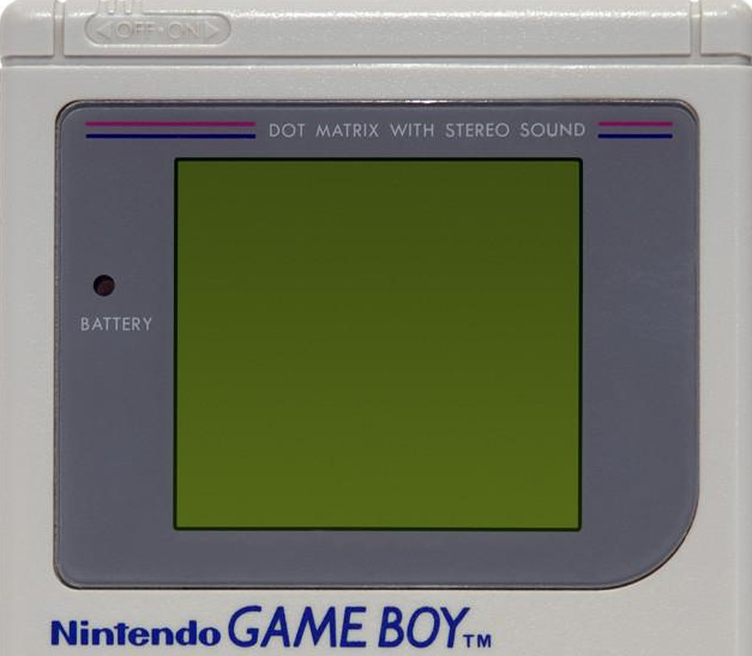
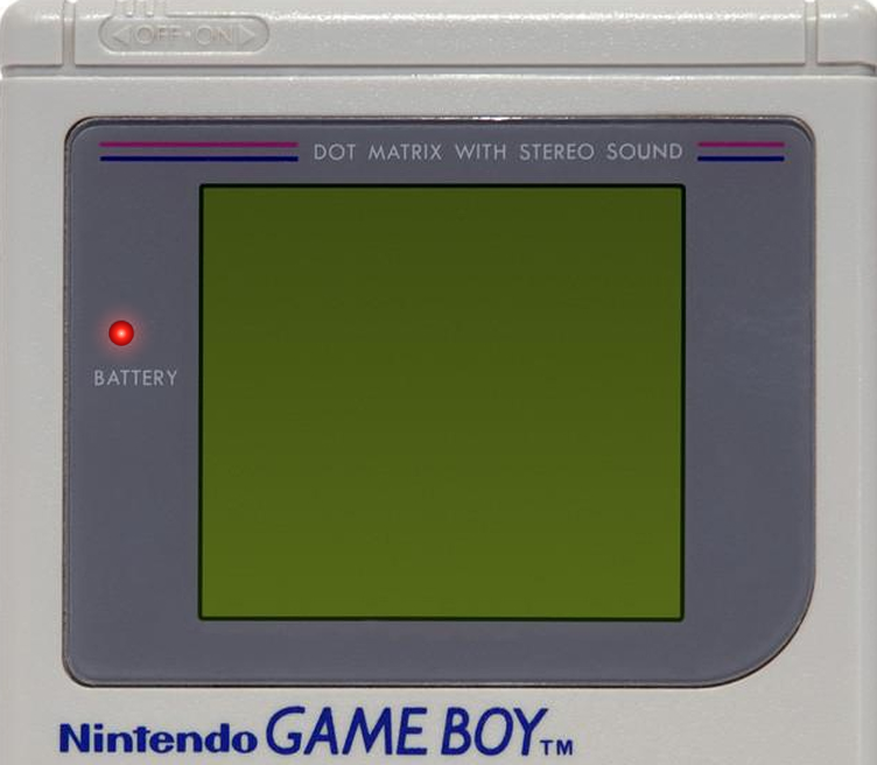
feat(frontend): add LCD pixel grid at integer 3x scale
Scale the Game Boy screen by an integer factor (160x144 -> 480x432) and darken the top row and left column of every pixel to mimic the gaps of a real LCD. Remove the LcdMap lookup tables, which are no longer needed, and regenerate the skin for the new window size (877x765).

Changed region(s): [[0.2141, 0.2439, 0.7952, 0.8232], [0.0918, 0.3963, 0.1835, 0.4878]]

diff --git a/src/frontend/mod.rs b/src/frontend/mod.rs
@@ -21,18 +21,24 @@ use crate::joypad::Button;
 const SCREEN_WIDTH: u32 = 160;
 const SCREEN_HEIGHT: u32 = 144;
 
-const WINDOW_SCALE: u32 = 6;
+const WINDOW_SCALE: u32 = 7;
 const WINDOW_SCALE_BASE: u32 = 5;
 
-/// Emulator window screen size in pixels.
 const WINDOW_WIDTH: u32 = 627 * WINDOW_SCALE / WINDOW_SCALE_BASE;
 const WINDOW_HEIGHT: u32 = 547 * WINDOW_SCALE / WINDOW_SCALE_BASE;
 
-/// Initial position and size where LCD is place on the window
-const LCD_X: u32 = 146 * WINDOW_SCALE / WINDOW_SCALE_BASE;
-const LCD_Y: u32 = 132 * WINDOW_SCALE / WINDOW_SCALE_BASE;
-const LCD_WIDTH: u32 = 339 * WINDOW_SCALE / WINDOW_SCALE_BASE;
-const LCD_HEIGHT: u32 = 311 * WINDOW_SCALE / WINDOW_SCALE_BASE;
+/// Integer scale of the Game Boy screen (160x144 -> 480x432).
+const LCD_SCALE: u32 = 3;
+const SCALE: usize = LCD_SCALE as usize;
+const SCREEN_W: usize = SCREEN_WIDTH as usize;
+
+const LCD_WIDTH: u32 = SCREEN_WIDTH * LCD_SCALE;
+const LCD_HEIGHT: u32 = SCREEN_HEIGHT * LCD_SCALE;
+
+// The LCD is centered on the center of the LCD area of the original
+// 627x547 skin: x = 146 + 339 / 2, y = 132 + 311 / 2.
+const LCD_X: u32 = (2 * 146 + 339) * WINDOW_SCALE / (2 * WINDOW_SCALE_BASE) - LCD_WIDTH / 2;
+const LCD_Y: u32 = (2 * 132 + 311) * WINDOW_SCALE / (2 * WINDOW_SCALE_BASE) - LCD_HEIGHT / 2;
 
 const FRAME_CYCLES: u32 = 70_224;
 const EMULATION_CHUNK_CYCLES: u32 = 256;
@@ -56,77 +62,53 @@ const PALETTE: [[u8; 4]; 4] = [
     [15, 56, 15, 255],   // 3: darkest
 ];
 
-/// Precomputed nearest-neighbor lookup tables that map every pixel of the
-/// on-screen LCD area to a pixel of the native 160x144 Game Boy framebuffer.
-///
-/// Building these once avoids doing two multiplications and two divisions
-/// per pixel on every frame.
-struct LcdMap {
-    /// For each destination column (`0..LCD_WIDTH`), the source column.
-    src_x: Vec<usize>,
-    /// For each destination row (`0..LCD_HEIGHT`), the source row.
-    src_y: Vec<usize>,
+/// Darkened version of `PALETTE`, used for the gaps between LCD pixels.
+const GRID_PALETTE: [[u8; 4]; 4] = [
+    [124, 150, 12, 255], // 0: lightest
+    [111, 138, 12, 255], // 1
+    [38, 78, 38, 255],   // 2
+    [12, 45, 12, 255],   // 3: darkest
+];
+
+/// Returns one LCD row as blocks of `SCALE` RGBA pixels, one block per source pixel.
+fn lcd_row(frame: &mut [u8], start: usize) -> &mut [[[u8; 4]; SCALE]] {
+    let bytes = &mut frame[start..start + LCD_WIDTH as usize * 4];
+    let (pixels, _) = bytes.as_chunks_mut::<4>();
+    let (blocks, _) = pixels.as_chunks_mut::<SCALE>();
+    blocks
 }
 
-impl LcdMap {
-    /// Builds the lookup tables from the current layout constants.
-    /// If `WINDOW_SCALE` changes, the tables adapt automatically.
-    fn new() -> Self {
-        Self {
-            src_x: (0..LCD_WIDTH)
-                .map(|x| (x * SCREEN_WIDTH / LCD_WIDTH) as usize)
-                .collect(),
-            src_y: (0..LCD_HEIGHT)
-                .map(|y| (y * SCREEN_HEIGHT / LCD_HEIGHT) as usize)
-                .collect(),
-        }
-    }
-}
-
-/// Scales the emulator framebuffer into the LCD region of the window buffer.
+/// Draws the emulator framebuffer into the LCD area with an LCD-like grid.
 ///
-/// Only the LCD rectangle is written; the rest of the buffer (the console
-/// skin drawn by `draw_skin`) is left untouched.
-///
-/// Because the LCD is larger than the source screen, consecutive destination
-/// rows often map to the same source row. The first one is rendered pixel by
-/// pixel; the repeats are produced with a single `memcpy` (`copy_within`).
-fn update_framebuffer(emulator: &Emulator, pixels: &mut Pixels<'static>, map: &LcdMap) {
+/// Each Game Boy pixel becomes a SCALE x SCALE block: its top row and left
+/// column are drawn with `GRID_PALETTE`, the rest with `PALETTE`. Only the
+/// first body row of each block is rendered; the others are copied.
+fn update_framebuffer(emulator: &Emulator, pixels: &mut Pixels<'static>) {
     let framebuffer = emulator.get_framebuffer();
     let frame = pixels.frame_mut();
-
     let stride = WINDOW_WIDTH as usize * 4;
     let lcd_row_bytes = LCD_WIDTH as usize * 4;
-    let screen_w = SCREEN_WIDTH as usize;
 
-    // Track the last rendered row so identical source rows can be copied.
-    let mut prev_src_y = usize::MAX;
-    let mut prev_row_start = 0;
+    for (src_y, src_row) in framebuffer.as_chunks::<SCREEN_W>().0.iter().enumerate() {
+        let grid_row = (LCD_Y as usize + src_y * SCALE) * stride + LCD_X as usize * 4;
+        let body_row = grid_row + stride;
 
-    for (y, &src_y) in map.src_y.iter().enumerate() {
-        // Byte offset of this destination row inside the window buffer.
-        let row_start = (LCD_Y as usize + y) * stride + LCD_X as usize * 4;
-
-        if src_y == prev_src_y {
-            // Same source row as the previous destination row:
-            // duplicate the already-rendered row instead of recomputing it.
-            frame.copy_within(prev_row_start..prev_row_start + lcd_row_bytes, row_start);
-        } else {
-            let src_row = &framebuffer[src_y * screen_w..(src_y + 1) * screen_w];
-            let dst_row = &mut frame[row_start..row_start + lcd_row_bytes];
-
-            // View the row as whole RGBA pixels; the remainder is empty
-            // because `dst_row` is exactly `LCD_WIDTH * 4` bytes long.
-            let (dst_pixels, _) = dst_row.as_chunks_mut::<4>();
-
-            // `& 3` keeps the palette index in range (0..=3).
-            for (dst, &sx) in dst_pixels.iter_mut().zip(&map.src_x) {
-                *dst = PALETTE[(src_row[sx] & 3) as usize];
-            }
+        // Top row of the block: the horizontal grid line.
+        for (block, &shade) in lcd_row(frame, grid_row).iter_mut().zip(src_row) {
+            block.fill(GRID_PALETTE[(shade & 3) as usize]);
         }
 
-        prev_src_y = src_y;
-        prev_row_start = row_start;
+        // First body row: the vertical grid line, then the pixel color.
+        for (block, &shade) in lcd_row(frame, body_row).iter_mut().zip(src_row) {
+            let shade = (shade & 3) as usize;
+            block[0] = GRID_PALETTE[shade];
+            block[1..].fill(PALETTE[shade]);
+        }
+
+        // Remaining body rows are identical: duplicate them.
+        for row in 2..SCALE {
+            frame.copy_within(body_row..body_row + lcd_row_bytes, grid_row + row * stride);
+        }
     }
 }
 
@@ -154,8 +136,6 @@ struct Frontend {
     window: Option<Arc<Window>>,
     /// Pixel buffer and GPU surface; created together with the window.
     pixels: Option<Pixels<'static>>,
-    /// Precomputed source-to-LCD pixel mapping (see `LcdMap`).
-    lcd_map: LcdMap,
     /// Emulated cycles accumulated toward the next frame.
     frame_cycles: u32,
     /// Deadline for emulating the next frame (frame pacing).
@@ -172,7 +152,6 @@ impl Frontend {
             audio,
             window: None,
             pixels: None,
-            lcd_map: LcdMap::new(),
             frame_cycles: 0,
             next_frame: Instant::now(),
         }
@@ -252,7 +231,7 @@ impl ApplicationHandler for Frontend {
             }
             WindowEvent::RedrawRequested => {
                 if let Some(pixels) = &mut self.pixels {
-                    update_framebuffer(&self.emulator, pixels, &self.lcd_map);
+                    update_framebuffer(&self.emulator, pixels);
                     pixels.render().unwrap();
                 }
             }
